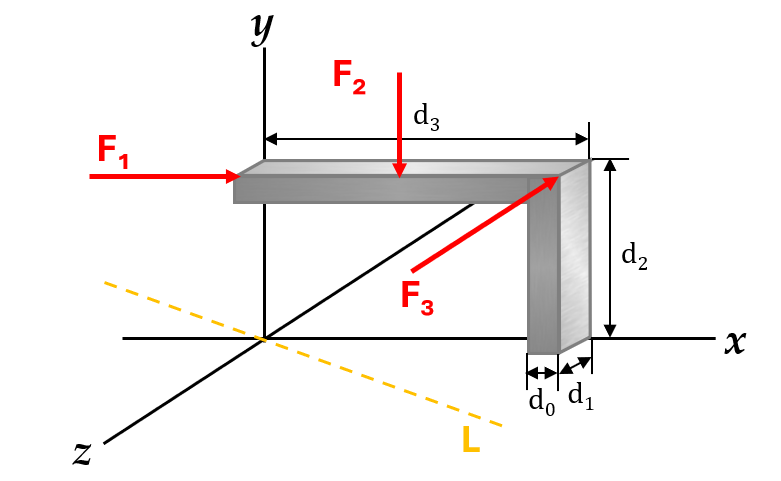
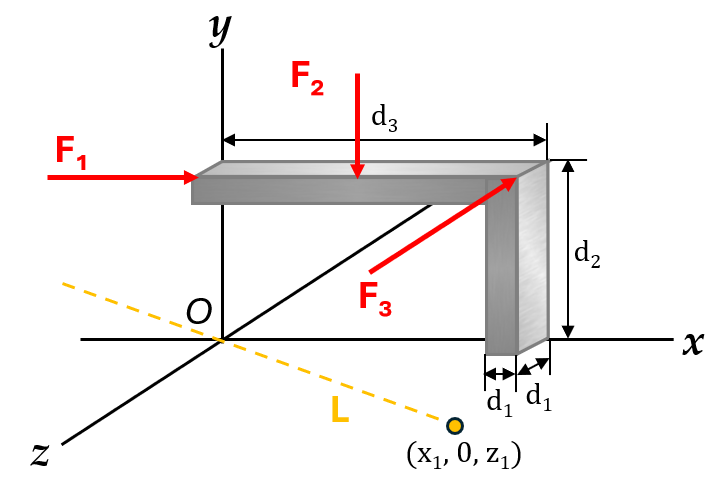
MAE_D

diff --git a/Class_Preguntas.py b/Class_Preguntas.py
@@ -4902,7 +4902,7 @@ preguntas = [
         answer1 = lambda f, a, calc, c, d, m: np.round(-f[0]*(((d[6]+50)/100))/2,2),
         answer2 = lambda f, a, calc, c, d, m: np.round((d[0]/Calculations.magnitude3D(d[0],d[3],d[0]+2))*(-f[0]*(((d[6]+50)/100))/2)+(-d[3]/Calculations.magnitude3D(d[0],d[3],d[0]+2))*((((d[6]+100)/100)-((d[6]+10)/100))*f[0]-(((d[6]+10)/100)/2)*f[1])+((d[0]+2)/Calculations.magnitude3D(d[0],d[3],d[0]+2))*(f[1]*(((d[6]+50)/100))),2),
         answer3 = lambda f, a, calc, c, d, m: 0,
-        ayuda1 = "Determine los vectores de cada una de las fuerzas. Utilice los ángulos $\\theta$ y $\\phi$ para descomponerlas.",
+        ayuda1 = MAE1,
         ayuda2 = "Encuentre el momento generado por cada fuerza.",      
         ayuda3 = "Observe que la única fuerza que genera momento alrededor del eje $x$ es $\\vec{{F_1}}$. Por lo tanto, al calcular este valor, obtiene directamente el momento requerido.",
         respuesta_P1 = lambda f, a, calc, c, d, m: f"""
@@ -4946,8 +4946,8 @@ preguntas = [
 
         $\\textbf{{\\small 5. Momento sobre la recta L: }}$       
 
-        ${{\hspace{{4mm}} \\vec{{M_L}}=\\vec{{M_O}} \\cdot \\vec{{\\lambda_L}} = ({-f[0]*(((d[6]+50)/100))/2:.2f}\\hat{{i}} + ({(((d[6]+100)/100)-((d[6]+10)/100))*f[0]-(((d[6]+10)/100)/2)*f[1]:.2f})\\hat{{j}} + {f[1]*(((d[6]+50)/100)):.2f}\\hat{{k}}) \\cdot ({d[0]/Calculations.magnitude3D(d[0],d[3],d[0]+2):.2f}\\hat{{i}} - {d[3]/Calculations.magnitude3D(d[0],d[3],d[0]+2):.2f}\\hat{{j}} + {(d[0]+2)/Calculations.magnitude3D(d[0],d[3],d[0]+2):.2f}\\hat{{k}})}}$
-        ${{\hspace{{4mm}} \\vec{{M_L}}=\\vec{{M_O}} \\cdot \\vec{{\\lambda_L}} = {(d[0]/Calculations.magnitude3D(d[0],d[3],d[0]+2))*(-f[0]*(((d[6]+50)/100))/2)+(-d[3]/Calculations.magnitude3D(d[0],d[3],d[0]+2))*((((d[6]+100)/100)-((d[6]+10)/100))*f[0]-(((d[6]+10)/100)/2)*f[1])+((d[0]+2)/Calculations.magnitude3D(d[0],d[3],d[0]+2))*(f[1]*(((d[6]+50)/100))):.2f} N \\cdot m}}$
+        ${{\hspace{{4mm}} |\\vec{{M_L}}|=\\vec{{M_O}} \\cdot \\vec{{\\lambda_L}} = ({-f[0]*(((d[6]+50)/100))/2:.2f}\\hat{{i}} + ({(((d[6]+100)/100)-((d[6]+10)/100))*f[0]-(((d[6]+10)/100)/2)*f[1]:.2f})\\hat{{j}} + {f[1]*(((d[6]+50)/100)):.2f}\\hat{{k}}) \\cdot ({d[0]/Calculations.magnitude3D(d[0],d[3],d[0]+2):.2f}\\hat{{i}} - {d[3]/Calculations.magnitude3D(d[0],d[3],d[0]+2):.2f}\\hat{{j}} + {(d[0]+2)/Calculations.magnitude3D(d[0],d[3],d[0]+2):.2f}\\hat{{k}})}}$
+        ${{\hspace{{4mm}} |\\vec{{M_L}}|=\\vec{{M_O}} \\cdot \\vec{{\\lambda_L}} = {(d[0]/Calculations.magnitude3D(d[0],d[3],d[0]+2))*(-f[0]*(((d[6]+50)/100))/2)+(-d[3]/Calculations.magnitude3D(d[0],d[3],d[0]+2))*((((d[6]+100)/100)-((d[6]+10)/100))*f[0]-(((d[6]+10)/100)/2)*f[1])+((d[0]+2)/Calculations.magnitude3D(d[0],d[3],d[0]+2))*(f[1]*(((d[6]+50)/100))):.2f} N \\cdot m}}$
         """,   
         respuesta_P2 = lambda f, a, calc, c, d, m: f"",
         respuesta_P3 = lambda f, a, calc, c, d, m: f"",
@@ -5089,42 +5089,66 @@ preguntas = [
         topic = MO,
         subtopic = "Momento alrededor de un eje",
         version = 1,
-        pregunta = lambda f, a, calc, c, d, m: f"Encuentre el momento generado por $F_1 = {f[0]:.0f}$, $F_2 = {f[1]:.0f}$, $F_3 = {f[2]:.0f}$ aplicadas sobre la viga y columna sobre la linea $L$ teniendo en cuenta que $x_0 = {d[0]:.0f}[m]$, $x_1 = {d[3]:.0f}[m]$, $x_2 = {d[6]:.0f}[m]$, $x_3 = {d[9]:.0f}[m]$, $x_4 = {d[12]:.0f}[m]$ y $x_5 = {d[15]:.0f}[m]$. Considere que $F_1$ se ejerce paralela al eje $x$, $F_2$ se ejerce paralelo al eje $y$ negativo y $F_3$ se ejerce paralelo al eje $z$ negativo.",
-        no_answers = 1,
-        a1_name = "Momento sobre la linea $L$ [$N \\cdot m$]",
-        a2_name = "",
-        a3_name = "",
-        answer1 = lambda f, a, calc, c, d, m: np.round((d[12]/Calculations.magnitude(d[12],d[15]))*(f[2]*(d[0]+d[3]/2))-((d[15]/Calculations.magnitude(d[12],d[15]))*(f[0]*(d[3]+d[6])+f[2]*(d[0]+d[3]/2))),2),
+        pregunta = lambda f, a, calc, c, d, m: f"Encuentre el momento alrededor de la recta $L$ generado por $F_1 = {f[0]:.0f} \\text{{ kN}}$, $F_2 = {f[1]:.0f}  \\text{{ kN}}$ y $F_3 = {f[2]:.0f}  \\text{{ kN}}$, aplicadas sobre la viga y la columna. Considere que $F_1$ es paralela al eje $x$, $F_2$ es paralela al eje $y$ negativo y se aplica en el centro de la luz de la viga, $F_3$ es paralela al eje $z$ negativo, $d_1 = {d[3]:.0f} \\text{{ m}}$, $d_2 = {d[6]:.0f} \\text{{ m}}$, $d_3 = {d[9]:.0f} \\text{{ m}}$, $x_1 = {d[12]:.0f}  \\text{{ m}}$ y $z_1 = {d[15]:.0f}  \\text{{ m}}$. ",
+        no_answers = 3,
+        a1_name = "Componente $x$ [$kN \\cdot m$]",
+        a2_name = "Componente $y$ [$kN \\cdot m$]",
+        a3_name = "Componente $z$ [$kN \\cdot m$]",
+        answer1 = lambda f, a, calc, c, d, m: np.round(((d[3]*f[1]+(-d[6]*f[2]))*(d[12]/Calculations.magnitude3D(d[12],0,d[15]))+(-(d[6])*(f[0])-f[1]*d[9]/2)*((d[15])/Calculations.magnitude3D(d[12],0,d[15])))*(d[12]/Calculations.magnitude3D(d[12],0,d[15])),2),
         answer2 = lambda f, a, calc, c, d, m: 0,
-        answer3 = lambda f, a, calc, c, d, m: 0,
-        ayuda1 = "Revise cuidadosamente donde se encuentran ubicadas las fuerzas para poder encontrar su vector posición.",
-        ayuda2 = "Encuentre el momento con respecto al origen para cada fuerza y haga sumatoria para hallar el vector momento total.",      
-        ayuda3 = "Saque el vector unitario de la linea y haga el producto punto con el vector hallado de la sumatoria de momento.",
+        answer3 = lambda f, a, calc, c, d, m: np.round(((d[3]*f[1]+(-d[6]*f[2]))*(d[12]/Calculations.magnitude3D(d[12],0,d[15]))+(-(d[6])*(f[0])-f[1]*d[9]/2)*((d[15])/Calculations.magnitude3D(d[12],0,d[15])))*(d[15]/Calculations.magnitude3D(d[12],0,d[15])),2),
+        ayuda1 = MAE1,
+        ayuda2 = "Encuentre el momento con respecto al origen para cada una de las fuerzas aplicadas. Luego, realice la sumatoria de lo momentos individuales para hallar el vector del momento total resultante.",     
+        ayuda3 = "Calcule el vector unitario de la recta y realice el producto punto con el vector resultante de la sumatoria de momento. Esta operación proporciona la magnitud del momento proyectado sobre la dirección de la recta. Para obtener el vector momento en dicha dirección, multiplique nuevamente esta magnitud por el vector unitario de la recta.",
         respuesta_P1 = lambda f, a, calc, c, d, m: f"""
-        A continuacion se presenta una posible solución para el problema:
+        El momento alrededor de un eje se calcula mediante el producto punto entre el vector de momento en un punto sobre el eje y el vector director del eje. A continuación, se presenta la solución sugerida para el ejercicio:  
         
-        $\\textbf{{\\small 1. Determinar los vectores fuerza:}}$
-        
-        ${{\hspace{{4mm}} \\vec{{F_1}} = ({f[0]}\\hat{{i}}+0\\hat{{j}}+0\\hat{{k}})[N]}}$
-        ${{\hspace{{4mm}} \\vec{{F_2}} = (0\\hat{{i}}-{f[1]}\\hat{{j}}+0\\hat{{k}})[N]}}$
-        ${{\hspace{{4mm}} \\vec{{F_3}} = (0\\hat{{i}}+0\\hat{{j}}-{f[2]}\\hat{{k}})[N]}}$
+        $\\textbf{{\\small 1. Momento de cada una de las fuerzas con respecto a O: }}$ 
 
-        $\\textbf{{\\small 2. Encontrar el momento generado por cada fuerza:}}$
-        Para $F_1$
-        ${{\hspace{{4mm}} \\vec{M} = (0\\hat{{i}}+0\\hat{{j}}-{f[0]*(d[3]+d[6])}\\hat{{k}})[N \\cdot m]}}$
-        Para $F_2$
-        ${{\hspace{{4mm}} \\vec{M} = (0\\hat{{i}}+0\\hat{{j}}-{f[1]*(d[9]/2)}\\hat{{k}})[N \\cdot m]}}$
-        Para $F_3$
-        ${{\hspace{{4mm}} \\vec{M} = (0\\hat{{i}}+{f[2]*(d[0]+d[3]/2)}\\hat{{j}}+0\\hat{{k}})[N \\cdot m]}}$
+        $\\underline{{Momento \\text{{ }} de \\text{{ }} la \\text{{ }} fuerza \\text{{ }} F1}}$
 
-        $\\textbf{{\\small 3. Sumatoria de Momentos:}}$
-        ${{\hspace{{4mm}} \\sum{{\\vec{{M}}}} = (0\\hat{{i}}+{f[2]*(d[0]+d[3]/2)}\\hat{{j}}-{f[0]*(d[3]+d[6])+f[2]*(d[0]+d[3]/2)}\\hat{{k}})[N \\cdot m]}}$
+        Los vectores para calcular el producto cruz son:
 
-        $\\textbf{{\\small 4. Vector Unitario recta $L$:}}$
-        ${{\hspace{{4mm}} \\vec{{\\lambda_L}} = 0\\hat{{i}}+{d[12]/Calculations.magnitude(d[12],d[15])}\\hat{{j}}+{d[15]/Calculations.magnitude(d[12],d[15])}\\hat{{k}}}}$
+        ${{\hspace{{4mm}} \\vec{{r}} = [0 \\hat{{i}} + {d[6]} \\hat{{j}} + {d[3]}\\hat{{k}}] \\text{{m}}}}$             
+        ${{\hspace{{4mm}} \\vec{{F_1}} = [{f[0]} \\hat{{i}} + 0\\hat{{j}} + 0\\hat{{k}}] \\text{{ kN}} }}$            
 
-        $\\textbf{{\\small 5. Momento sobre la linea $L$:}}$
-        ${{\hspace{{4mm}} \\sum{{\\vec{{M}}}} \\cdot \\vec{{\\lambda_L}} = {(d[12]/Calculations.magnitude(d[12],d[15]))*(f[2]*(d[0]+d[3]/2))-((d[15]/Calculations.magnitude(d[12],d[15]))*(f[0]*(d[3]+d[6])+f[2]*(d[0]+d[3]/2)))}[N \\cdot m]}}$
+        ${{\hspace{{4mm}} \\vec{{M_{{F1}}}} = [0 \\hat{{i}} + {(d[3])*(f[0]):.2f} \\hat{{j}} - {(d[6])*(f[0]):.2f}\\hat{{k}}] kN \\cdot m}}$     
+
+        $\\underline{{Momento \\text{{ }} de \\text{{ }} la \\text{{ }} fuerza \\text{{ }} F2}}$
+
+        Los vectores para calcular el producto cruz son:
+
+        ${{\hspace{{4mm}} \\vec{{r}} = [{d[9]/2:.2f} \\hat{{i}} + {d[6]} \\hat{{j}} + {d[3]}\\hat{{k}}] \\text{{m}}}}$             
+        ${{\hspace{{4mm}} \\vec{{F_2}} = [0 \\hat{{i}} + {-f[1]}\\hat{{j}} + 0\\hat{{k}}] \\text{{ kN}} }}$            
+
+        ${{\hspace{{4mm}} \\vec{{M_{{F2}}}} = [{d[3]*f[1]} \\hat{{i}} + 0 \\hat{{j}} - {f[1]*d[9]/2:.2f}\\hat{{k}}] kN \\cdot m}}$ 
+
+        $\\underline{{Momento \\text{{ }} de \\text{{ }} la \\text{{ }} fuerza \\text{{ }} F3}}$
+
+        Los vectores para calcular el producto cruz son:
+
+        ${{\hspace{{4mm}} \\vec{{r}} = [{d[9]:.2f} \\hat{{i}} + {d[6]} \\hat{{j}} + {d[3]}\\hat{{k}}] \\text{{m}}}}$             
+        ${{\hspace{{4mm}} \\vec{{F_3}} = [0 \\hat{{i}} + 0 \\hat{{j}} - {f[2]}\\hat{{k}}] \\text{{ kN}} }}$            
+
+        ${{\hspace{{4mm}} \\vec{{M_{{F3}}}} = [{-d[6]*f[2]} \\hat{{i}} + {d[9]*f[2]} \\hat{{j}} + 0\\hat{{k}}] kN \\cdot m}}$ 
+
+        $\\textbf{{\\small 2. Sumatoria de Momentos con respecto al punto O: }}$         
+
+        ${{\hspace{{4mm}} \\vec{{M_O}} = \\vec{{M_{{F1}}}} + \\vec{{M_{{F2}}}} + \\vec{{M_{{F3}}}} = [{d[3]*f[1]+(-d[6]*f[2]):.2f}\\hat{{i}} + {(d[3])*(f[0])+d[9]*f[2]:.2f}\\hat{{j}} + ({-(d[6])*(f[0])-f[1]*d[9]/2:.2f})\\hat{{k}}] \\text{{ }} kN \\cdot m}}$ 
+
+        $\\textbf{{\\small 3. Vector director de la recta L - Vector Unitario: }}$    
+
+        ${{\hspace{{4mm}} \\vec{{L}} = {d[12]:.0f}\\hat{{i}} + 0 \\hat{{j}} + {d[15]:.0f}\\hat{{k}}}}$                      
+        ${{\hspace{{4mm}} \\vec{{\\lambda_L}} = {d[12]/Calculations.magnitude3D(d[12],0,d[15]):.2f}\\hat{{i}} + 0\\hat{{j}} + {(d[15])/Calculations.magnitude3D(d[12],0,d[15]):.2f}\\hat{{k}}}}$
+
+        $\\textbf{{\\small 4. Momento sobre la recta L: }}$       
+
+        ${{\hspace{{4mm}} |\\vec{{M_L}}| =\\vec{{M_O}} \\cdot \\vec{{\\lambda_L}} = ({d[3]*f[1]+(-d[6]*f[2]):.2f}\\hat{{i}} + {(d[3])*(f[0])+d[9]*f[2]:.2f}\\hat{{j}} + {-(d[6])*(f[0])-f[1]*d[9]/2:.2f}\\hat{{k}}) \\cdot ({d[12]/Calculations.magnitude3D(d[12],0,d[15]):.2f}\\hat{{i}} + 0\\hat{{j}} + {(d[15])/Calculations.magnitude3D(d[12],0,d[15]):.2f} \\hat{{k}}) }}$
+        ${{\hspace{{4mm}} |\\vec{{M_L}}| =\\vec{{M_O}} \\cdot \\vec{{\\lambda_L}} = {(d[3]*f[1]+(-d[6]*f[2]))*(d[12]/Calculations.magnitude3D(d[12],0,d[15]))+(-(d[6])*(f[0])-f[1]*d[9]/2)*((d[15])/Calculations.magnitude3D(d[12],0,d[15])):.2f} \\text{{ }} kN \\cdot m}}$
+
+        Para encontrar la dirección del momento alrededor de la recta $L$, se multiplica nuevamente por su vector unitario.
+
+        ${{\hspace{{4mm}} |\\vec{{M_L}}| =\\vec{{M_L}} \\cdot \\vec{{\\lambda_L}} = [{((d[3]*f[1]+(-d[6]*f[2]))*(d[12]/Calculations.magnitude3D(d[12],0,d[15]))+(-(d[6])*(f[0])-f[1]*d[9]/2)*((d[15])/Calculations.magnitude3D(d[12],0,d[15])))*(d[12]/Calculations.magnitude3D(d[12],0,d[15])):.2f} \\hat{{i}}  {((d[3]*f[1]+(-d[6]*f[2]))*(d[12]/Calculations.magnitude3D(d[12],0,d[15]))+(-(d[6])*(f[0])-f[1]*d[9]/2)*((d[15])/Calculations.magnitude3D(d[12],0,d[15])))*(d[15]/Calculations.magnitude3D(d[12],0,d[15])):.2f} \\hat{{k}}] \\text{{ }} kN \\cdot m}}$
         """,   
         respuesta_P2 = lambda f, a, calc, c, d, m: f"",
         respuesta_P3 = lambda f, a, calc, c, d, m: f"",

diff --git a/Interface.py b/Interface.py
@@ -1062,6 +1062,8 @@ if authenticate_user():
                 if subtopic == "Momento alrededor de un eje":
                     if pregunta_no == 2:
                         st.image(MAE_image_paths[8], width=450)
+                    if pregunta_no == 3:
+                        st.image(MAE_image_paths[9], width=450)
                 if subtopic == "Momento par":
                     if pregunta_no == 1:
                         st.image(MP_image_paths[8], width=450)

diff --git a/Imagenes.py b/Imagenes.py
@@ -166,6 +166,7 @@ MAE_image_paths =[#Imágenes Preguntas Cálculo Momento alrededor de un eje
 
 #Nivel díficil
 "./Imagenes/Preguntas/MO/MAE/MO_MAE_D_2a.png", #[8]
+"./Imagenes/Preguntas/MO/MAE/MO_MAE_D_3a.png", #[9]
 ]
 
 MP_image_paths =[#Imágenes Preguntas Cálculo Momento par
